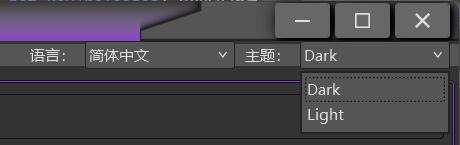
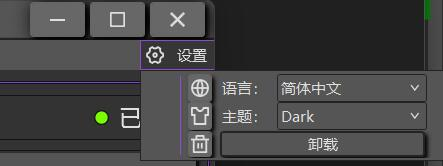
更新README.md

diff --git a/README.md b/README.md
@@ -23,6 +23,10 @@
 1. 前往 [release](https://gitee.com/CC_Hello/custom-hot-key/releases) 页面 
 2. 选择合适的版本进行下载
 
+## 卸载步骤
+
+1. 展开主界面`设置`下拉框，点击`卸载`即可卸载 
+
 ## 如何使用
 
 ### 熟悉界面
@@ -33,7 +37,7 @@
 右上角是文件菜单，可以管理关于文件的操作：
 ![文件菜单](doc/02.jpg)
 
-左上角是设置区，可以设置语言、主题：
+左上角是设置下拉框，展开后可以设置语言、主题：
 ![设置](doc/03.jpg)
 
 主界面右侧是文件视图，可以直观的操作文件
